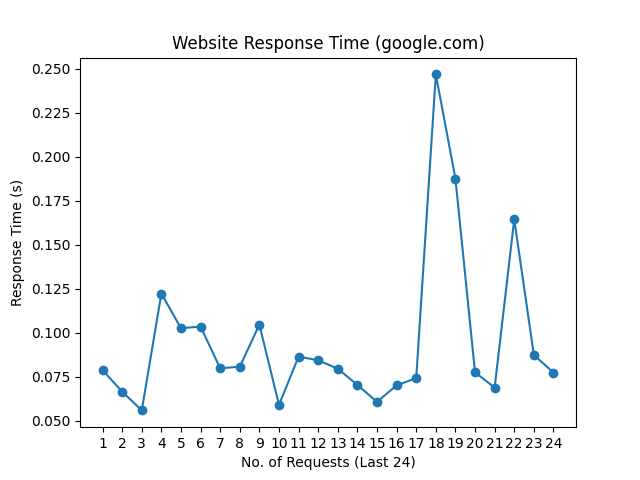
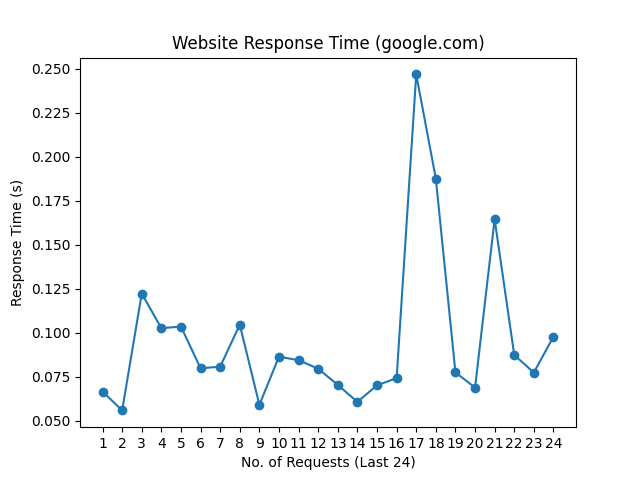
update README.md, history and graph

Changed region(s): [[0.1562, 0.125, 0.875, 0.875]]

diff --git a/README.md b/README.md
@@ -1,10 +1,10 @@
 # Web Monitoring
 
-Last Checked: 29/07/2024 08:18
+Last Checked: 30/07/2024 08:17
 
 | Website | Response Time (s) | Status | Avg Uptime (%) |
 |---------|-------------------|--------|----------------|
 | www.thiswebsiteisdown.net | 0 <br> <img src="graph/thiswebsiteisdown.net.png" alt="Graph" width="200" height="200">  | ❌ Down | 0.00 |
-| www.netflix.com | 0.479169 <br> <img src="graph/netflix.com.png" alt="Graph" width="200" height="200">  | ✅ Up | 100.00 |
-| www.google.com | 0.077347 <br> <img src="graph/google.com.png" alt="Graph" width="200" height="200">  | ✅ Up | 100.00 |
-| www.facebook.com | 1.110561 <br> <img src="graph/facebook.com.png" alt="Graph" width="200" height="200">  | ✅ Up | 100.00 |
+| www.netflix.com | 0.993780 <br> <img src="graph/netflix.com.png" alt="Graph" width="200" height="200">  | ✅ Up | 100.00 |
+| www.google.com | 0.097786 <br> <img src="graph/google.com.png" alt="Graph" width="200" height="200">  | ✅ Up | 100.00 |
+| www.facebook.com | 0.843106 <br> <img src="graph/facebook.com.png" alt="Graph" width="200" height="200">  | ✅ Up | 100.00 |
